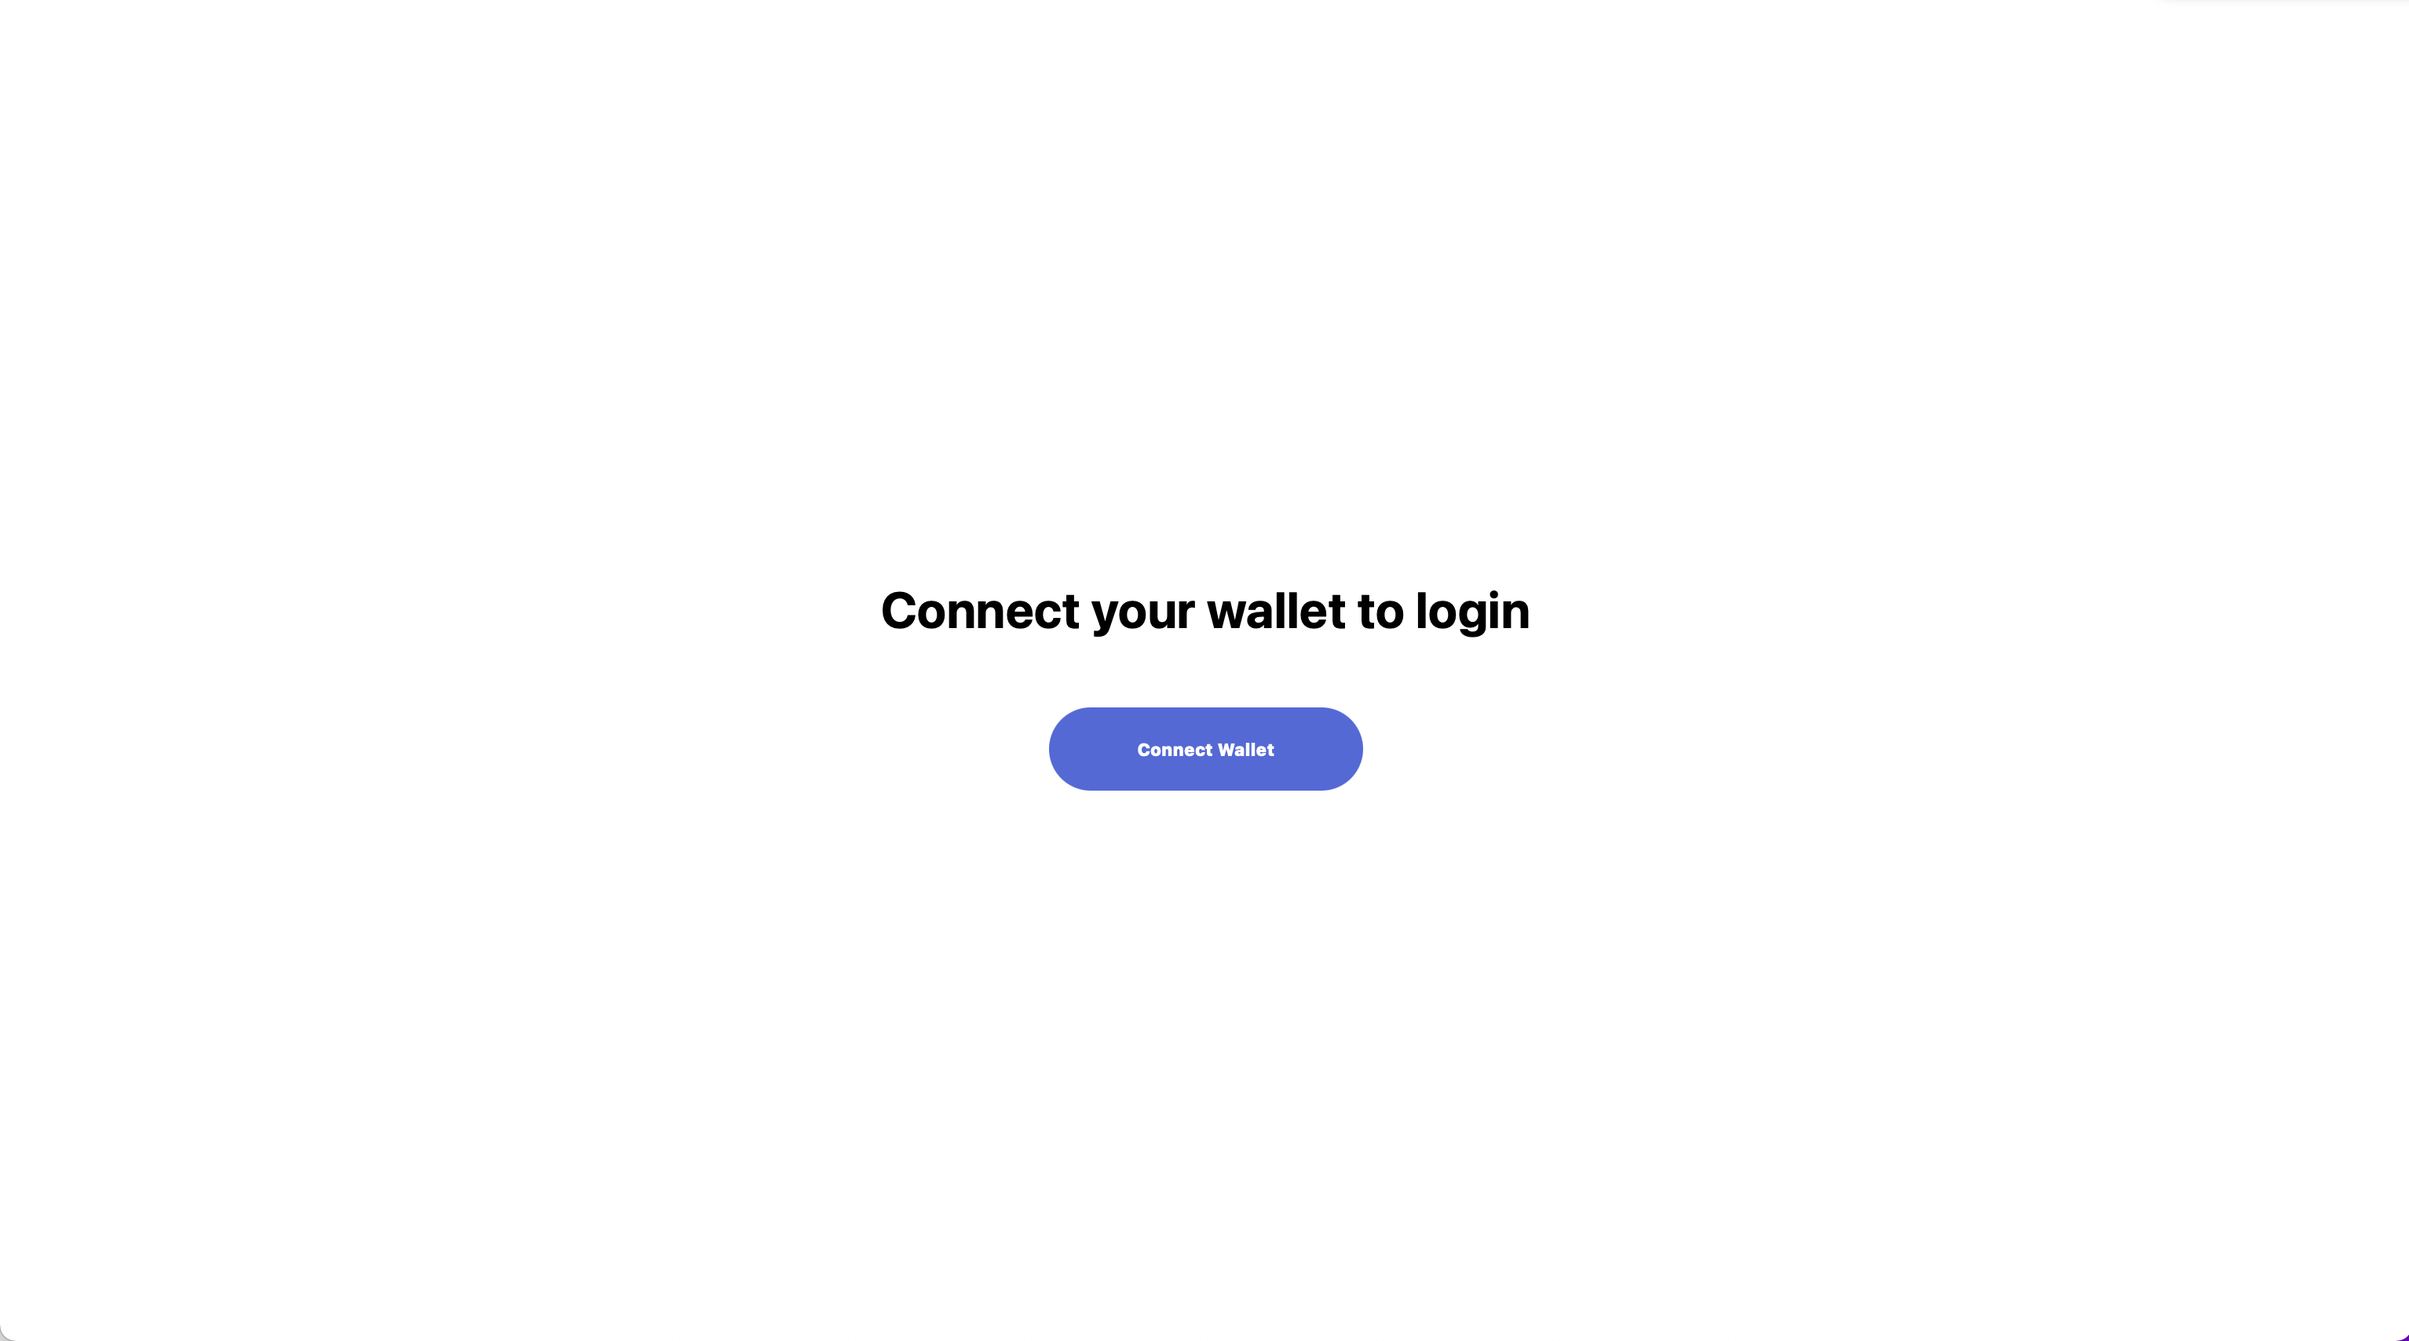
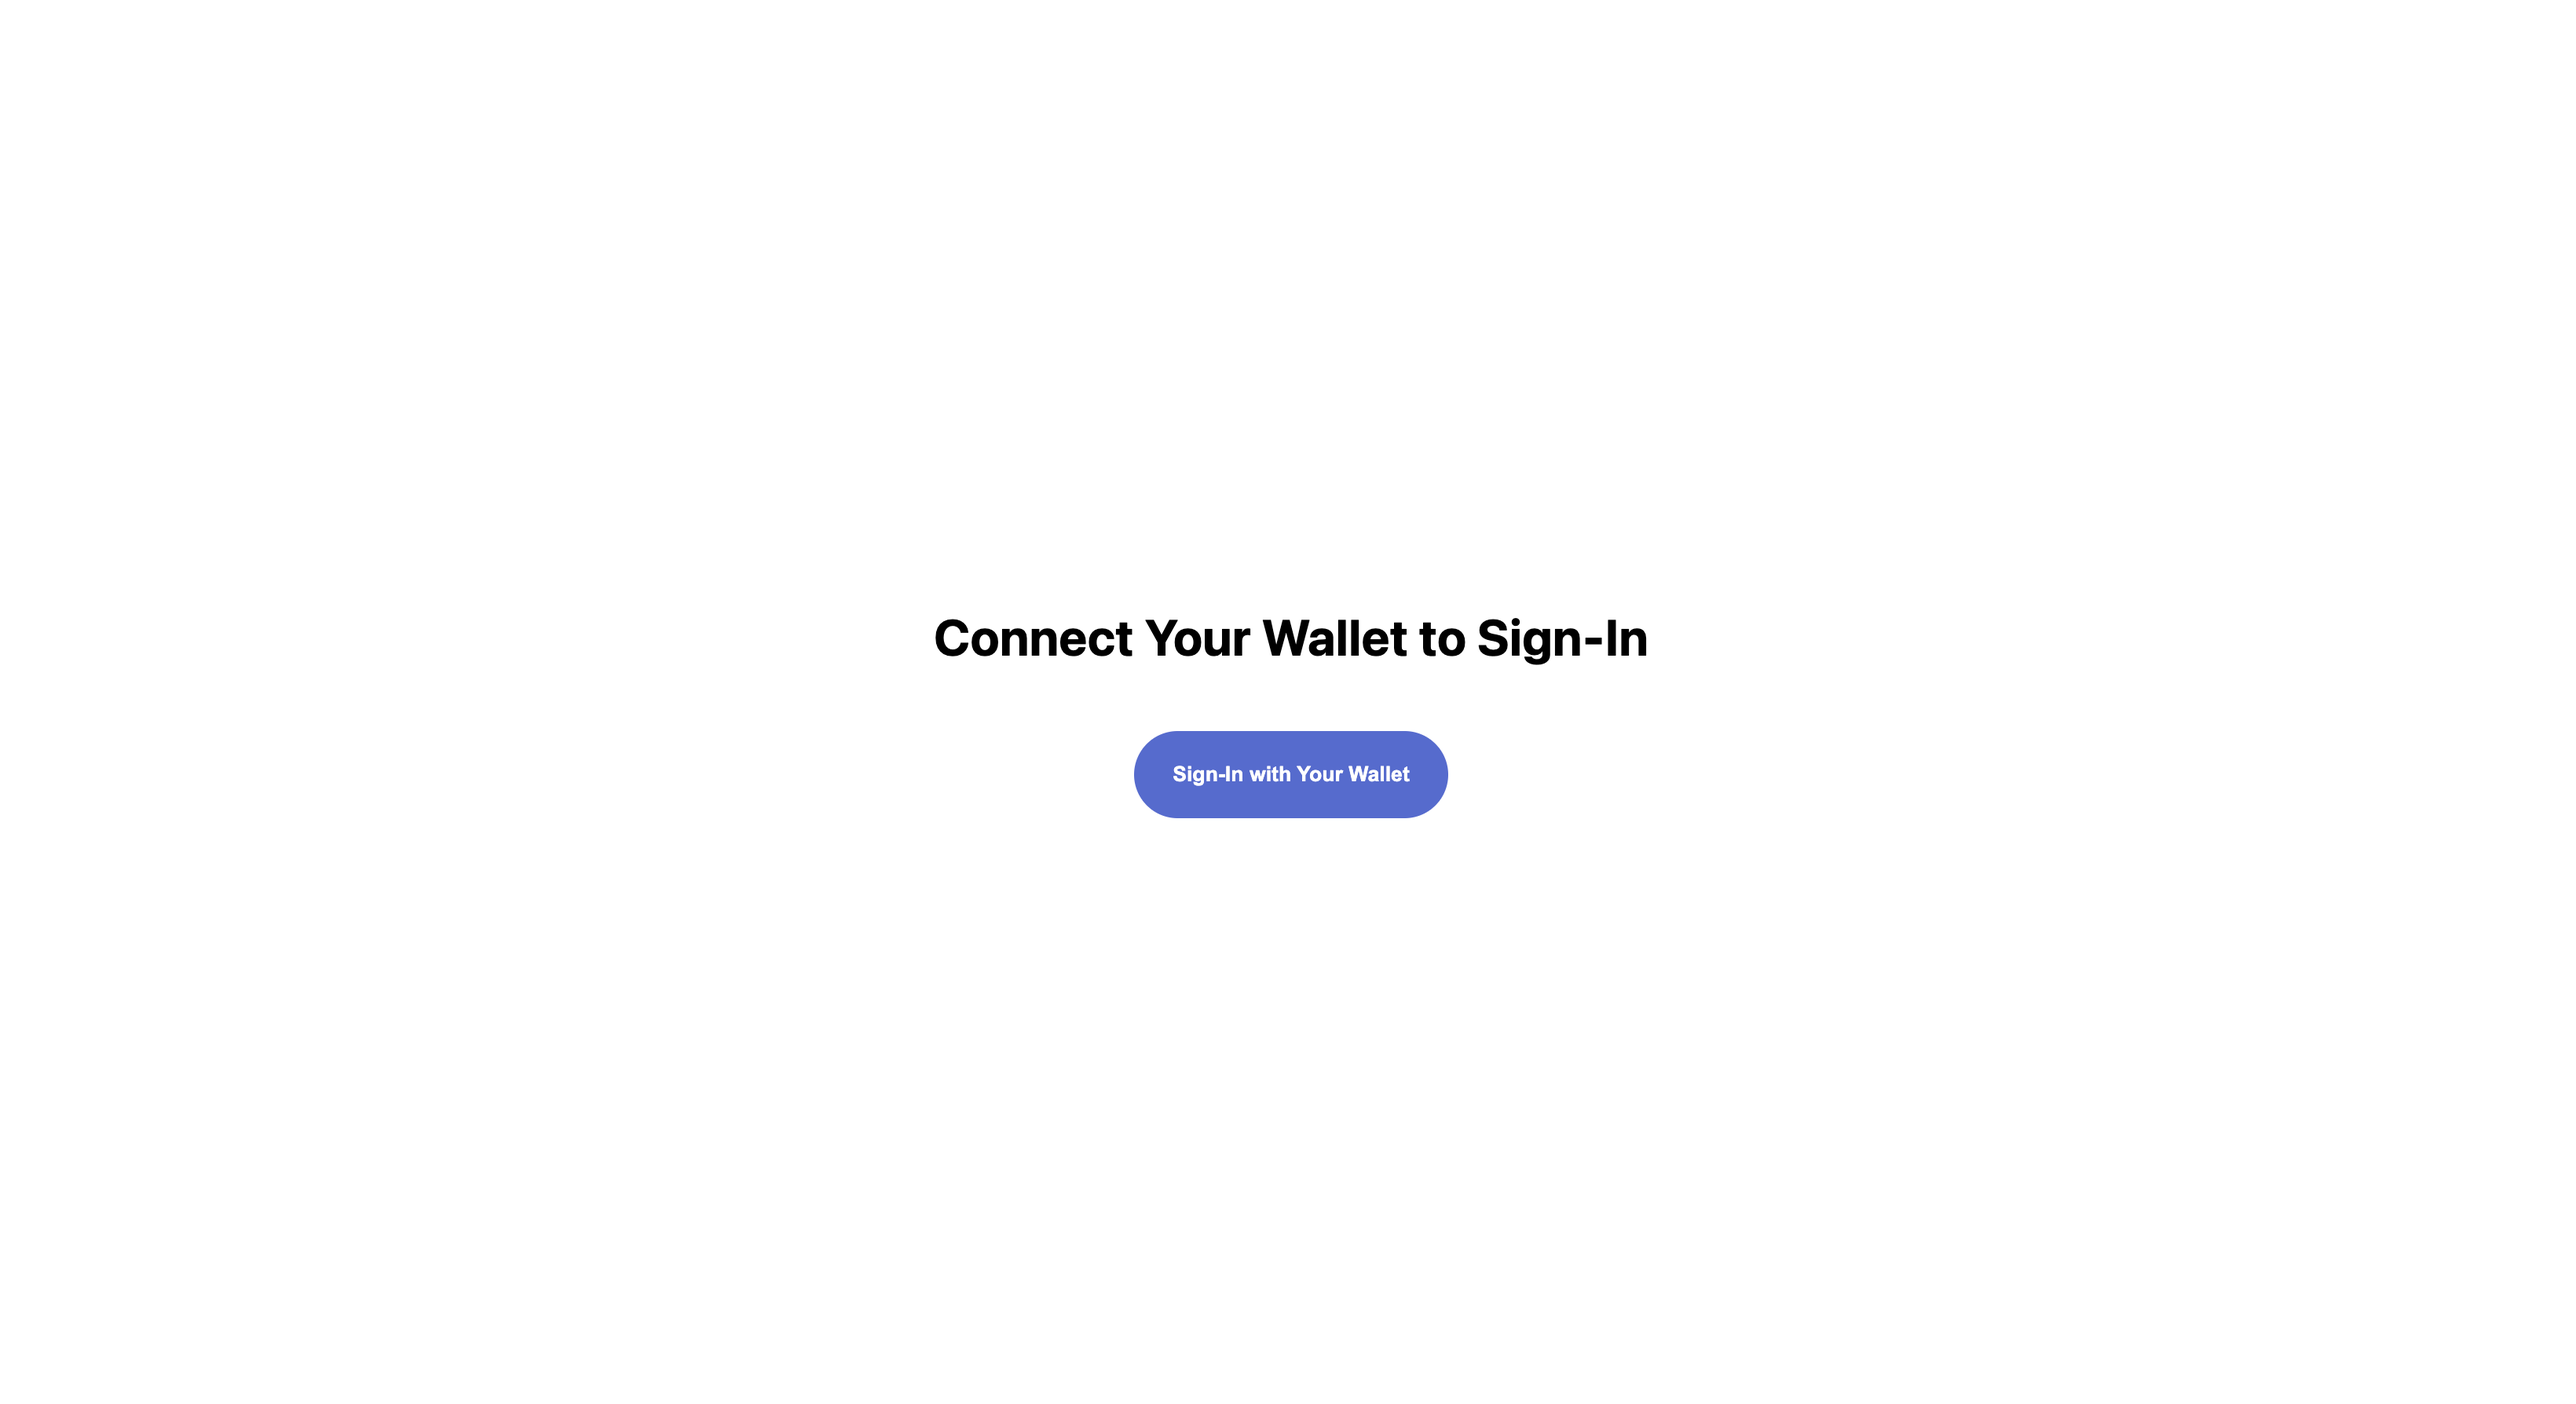
Show error msg, simplify instructions, update screenshot

Changed region(s): [[0.4335, 0.4965, 0.5883, 0.5896], [0.3406, 0.4344, 0.6503, 0.4965], [0.9909, 0.993, 1.0, 1.0]]

diff --git a/pages/index.tsx b/pages/index.tsx
@@ -13,7 +13,7 @@ const Header = () => (
 );
 
 const Home: NextPage = () => {
-  const { isAuthenticating, isAuthenticated, authState, logout, login } =
+  const { isAuthenticating, isAuthenticated, authState, logout, login, error } =
     usePicket();
 
   // user is logging in
@@ -33,13 +33,18 @@ const Home: NextPage = () => {
       <div className={styles.container}>
         <Header />
         <main className={styles.main}>
-          <h1 className={styles.title}>Connect your wallet to login</h1>
+          <h1 className={styles.title}>Connect Your Wallet to Sign-In</h1>
           <button
             className={styles.connectWalletButton}
             onClick={() => login()}
           >
-            Connect Wallet
+            Sign-In with Your Wallet
           </button>
+          {error && (
+            <p className={styles.error}>
+              {"msg" in error ? error.msg : error.toString()}
+            </p>
+          )}
         </main>
       </div>
     );

diff --git a/styles/Home.module.css b/styles/Home.module.css
@@ -33,3 +33,8 @@
   overflow-wrap: break-word;
   margin: 12px 0;
 }
+
+.error {
+  margin: 12px 0;
+  color: #b9261c;
+}

diff --git a/README.md b/README.md
@@ -38,139 +38,35 @@ function MyApp({ Component, pageProps }: AppProps) {
 export default MyApp;
 ```
 
-## 4. Build your home page
-Replace the contents of `pages/index.tsx` with the following:
-
-```tsx
-import type { NextPage } from "next";
-import Head from "next/head";
-import styles from "../styles/Home.module.css";
-
-import { usePicket } from "@picketapi/picket-react";
-
-const Header = () => (
-  <Head>
-    <title>Picket Hello World</title>
-    <meta name="description" content="Saying hello to a web3 world" />
-    <link rel="icon" href="/favicon.ico" />
-  </Head>
-);
-
-const Home: NextPage = () => {
-  const { isAuthenticating, isAuthenticated, authState, logout, login } =
-    usePicket();
-
-  // user is logging in
-  if (isAuthenticating)
-    return (
-      <div className={styles.container}>
-        <Header />
-        <main className={styles.main}>
-          <h1 className={styles.title}>Connecting...</h1>
-        </main>
-      </div>
-    );
-
-  // user is not logged in
-  if (!isAuthenticated) {
-    return (
-      <div className={styles.container}>
-        <Header />
-        <main className={styles.main}>
-          <h1 className={styles.title}>Connect your wallet to login</h1>
-          <button
-            className={styles.connectWalletButton}
-            onClick={() => login()}
-          >
-            Connect Wallet
-          </button>
-        </main>
-      </div>
-    );
-  }
-
-  // user is logged in 🎉
-  const { user, accessToken } = authState;
-  const { walletAddress } = user;
-
-  return (
-    <div className={styles.container}>
-      <Header />
-      <main className={styles.main}>
-        <h1 className={styles.title}>
-          You are logged in as {walletAddress} 🎉
-        </h1>
-        <code className={styles.accessToken}>{accessToken}</code>
-        <button onClick={() => logout()}>Logout</button>
-      </main>
-    </div>
-  );
-};
-
-export default Home;
-```
-
-The magic method here to initiate logging in a user is picket.login() which can be found in the case where a user is not logged in and triggered when a user clicks on the connect wallet button. 
-
-Next up, replace the contents of Home.module.css with the following:
-
-```css
-.container {
-  padding: 0 2rem;
-}
-
-.main {
-  min-height: 100vh;
-  padding: 4rem 0;
-  flex: 1;
-  display: flex;
-  flex-direction: column;
-  justify-content: center;
-  align-items: center;
-}
-
-.title {
-  color: black;
-  padding-bottom: 20px;
-}
-
-.connectWalletButton {
-  border-style: none;
-  background-color: #5469d4;
-  width: 200px;
-  padding: 20px;
-  border-radius: 50px;
-
-  color: white;
-  font-weight: 800;
-}
-
-.accessToken {
-  max-width: 400px;
-  overflow-wrap: break-word;
-  margin: 12px 0;
-}
-```
-
-When you navigate to http://localhost:3000 in your browser you should see the following:
-
-![image](public/picket-example1-app-running-frontend-only.png)
-
-## 5. Now let's make it real!
-You'll need to add your api key to make this functional. Navigate to your [Picket account dashboard](https://picketapi.com/dashboard) and copy your publishable key from a project. Now paste it into the `pages/_app.tsx`
+## 4. Add Your API Key
+You'll need to add your pubblishable API key to make this functional. Navigate to your [Picket account dashboard](https://picketapi.com/dashboard) and copy your publishable key from a project. Now paste it into the `pages/_app.tsx`
 
 ```tsx
 // in pages/_app.tsx
 // Replace with your copied publishable key
 const apiKey = "YOUR_PUBLISHABLE_KEY_GOES_HERE";
 ```
-## 6. Try it out!
-Now, when you run `npm run dev` from the command line and navigate to `http://localhost:3000` in your browser you should have a working app that lets you tap on the “Connect Wallet” button to initiate a signing request and verify your wallet.
 
-Assuming you’re in a browser with Metamask installed, when you click on “Connect Wallet” you should now see the following: 
+## 5. Build your home page
+Copy and paste the contents of [pages/index.tsx](https://github.com/picketapi/picket-example-hello-world/blob/main/pages/index.tsx) into your local `pages/index.tsx`.
+
+The magic method here to initiate logging in a user is `picket.login()`, which is triggered when a user click the  `Sign-In  with Your Wallet` button.
+
+Next up, replace the contents of your local `styles/Home.module.css` with the [styles/Home.module.css](https://github.com/picketapi/picket-example-hello-world/blob/main/styles/Home.module.css).
+
+When you navigate to http://localhost:3000 in your browser you should see the following:
+
+![image](public/picket-example1-app-running-frontend-only.png)
+
+## 6. Try it out!
+Now, when you run `npm run dev` from the command line and navigate to http://localhost:3000 in your browser you should have a working app. You can tap on the `Sign-In with Your Wallet` button to initiate a signing request and verify your wallet.
+
+Assuming you’re in a browser with Metamask installed, when you click on `Sign-In with Your Wallet`  you should now see the following: 
 
 ![image](public/picket-example1-mm-signing-request.png)
 
 And when you click sign, you should see your wallet address you used to sign the request displayed on the page. This access token can now be used for the *lifetime of the access token* to *verify* a user’s wallet without needing to ask the user to sign another request.
 
-This long lived strong guarantee of the user’s ownership of their wallet opens up a world of opportunities for enabling easy and secure web3 experiences. You can use it as a new one click authentication method, for limiting access to private content to certain wallet addresses, as a way to link wallets to existing user accounts and much more. Want to move beyond authenticating wallets and interested in how this same picket.login() method can be used to token gate services and verify a user has ownership of a given token? Check out the *Token Gating Tutorial*. It’s just one more step!
+This long lived strong guarantee of the user’s ownership of their wallet opens up a world of opportunities for enabling easy and secure web3 experiences. You can use it as a new one click authentication method, for limiting access to private content to certain wallet addresses, as a way to link wallets to existing user accounts and much more. 
+
+Want to move beyond authenticating wallets and interested in how this same `picket.login()` method can be used to token gate services and verify a user has ownership of a given token? Check out the *Token Gating Tutorial*. It’s just one more step!
